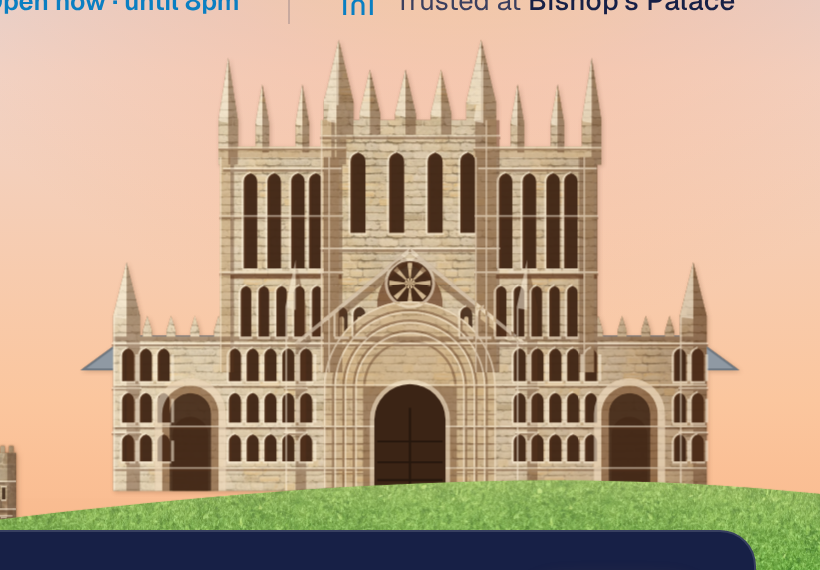
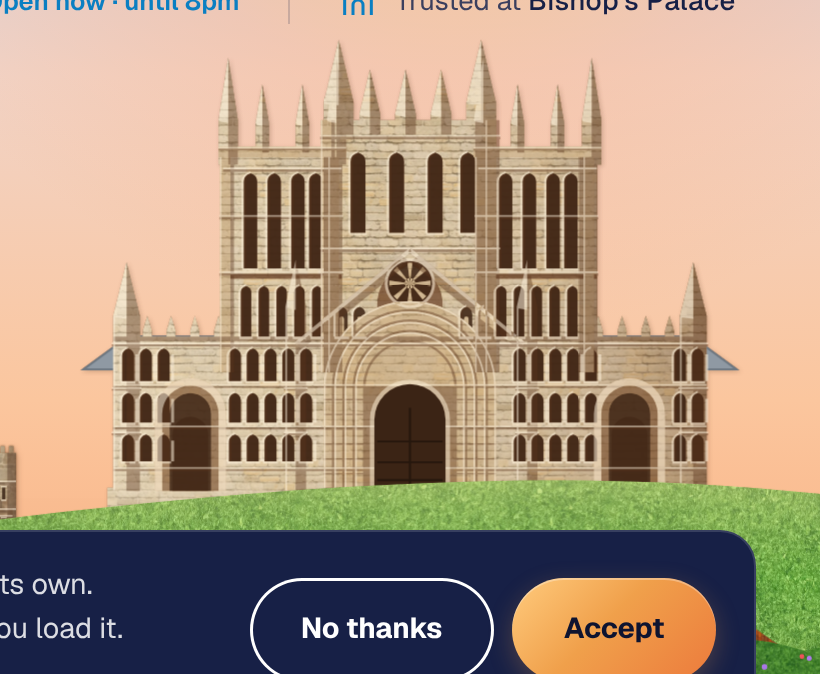
Hero: bury cathedral foundation plinth in the hill so no gaps show
Claude-Session: https://claude.ai/code/session_01KZy8Ptkq3oxorUJVA8Emz7

diff --git a/index.html b/index.html
@@ -158,7 +158,7 @@
         <!-- LINCOLN CATHEDRAL west front (from Castle Hill): image screen with blind arcading and three Norman recesses, gable with the great west window, twin west towers and the taller central tower behind -->
         <g class="hero__cathedral" transform="matrix(0.86 0 0 0.86 738.0 -20.0)">
           <path fill="#8F99A3" stroke="#6E7882" d="M120 318L150 296H222V318ZM560 318L530 296H458V318Z"/>
-          <g fill="url(#tex-stone)"><g id="cath-shape"><path d="M282 320V150H398V320ZM282 160V138L292.0 96L302 138V160ZM306 160V146L313.0 116L320 146V160ZM330 160V146L337.0 116L344 146V160ZM354 160V146L361.0 116L368 146V160ZM378 160V138L388.0 96L398 138V160ZM214 320V168H294V320ZM211 168H297V175H211ZM211 180V150L217.5 108L224 150V180ZM284 180V150L290.5 108L297 150V180ZM236 172V152L240.5 126L245 152V172ZM263 172V152L267.5 126L272 152V172ZM386 320V168H466V320ZM383 168H469V175H383ZM383 180V150L389.5 108L396 150V180ZM456 180V150L462.5 108L469 150V180ZM408 172V152L412.5 126L417 152V172ZM435 172V152L439.5 126L444 152V172ZM140 400V296H540V400ZM160 298V292L163.0 282L166 292V298ZM176 298V292L179.0 282L182 292V298ZM192 298V292L195.0 282L198 292V298ZM208 298V292L211.0 282L214 292V298ZM224 298V292L227.0 282L230 292V298ZM240 298V292L243.0 282L246 292V298ZM256 298V292L259.0 282L262 292V298ZM272 298V292L275.0 282L278 292V298ZM288 298V292L291.0 282L294 292V298ZM304 298V292L307.0 282L310 292V298ZM320 298V292L323.0 282L326 292V298ZM336 298V292L339.0 282L342 292V298ZM352 298V292L355.0 282L358 292V298ZM368 298V292L371.0 282L374 292V298ZM384 298V292L387.0 282L390 292V298ZM400 298V292L403.0 282L406 292V298ZM416 298V292L419.0 282L422 292V298ZM432 298V292L435.0 282L438 292V298ZM448 298V292L451.0 282L454 292V298ZM464 298V292L467.0 282L470 292V298ZM480 298V292L483.0 282L486 292V298ZM496 298V292L499.0 282L502 292V298ZM512 298V292L515.0 282L518 292V298ZM262 300L340 236L418 300ZM334 244V236L340.0 214L346 236V244ZM140 400V282L149.0 246L158 282V400ZM522 400V282L531.0 246L540 282V400ZM256 400V276L263.0 244L270 276V400ZM412 400V276L419.0 244L426 276V400Z"/></g></g><use href="#cath-shape" fill="url(#hero-shade)"/>
+          <g fill="url(#tex-stone)"><g id="cath-shape"><path d="M282 320V150H398V320ZM282 160V138L292.0 96L302 138V160ZM306 160V146L313.0 116L320 146V160ZM330 160V146L337.0 116L344 146V160ZM354 160V146L361.0 116L368 146V160ZM378 160V138L388.0 96L398 138V160ZM214 320V168H294V320ZM211 168H297V175H211ZM211 180V150L217.5 108L224 150V180ZM284 180V150L290.5 108L297 150V180ZM236 172V152L240.5 126L245 152V172ZM263 172V152L267.5 126L272 152V172ZM386 320V168H466V320ZM383 168H469V175H383ZM383 180V150L389.5 108L396 150V180ZM456 180V150L462.5 108L469 150V180ZM408 172V152L412.5 126L417 152V172ZM435 172V152L439.5 126L444 152V172ZM140 400V296H540V400ZM136 470V398H544V470ZM160 298V292L163.0 282L166 292V298ZM176 298V292L179.0 282L182 292V298ZM192 298V292L195.0 282L198 292V298ZM208 298V292L211.0 282L214 292V298ZM224 298V292L227.0 282L230 292V298ZM240 298V292L243.0 282L246 292V298ZM256 298V292L259.0 282L262 292V298ZM272 298V292L275.0 282L278 292V298ZM288 298V292L291.0 282L294 292V298ZM304 298V292L307.0 282L310 292V298ZM320 298V292L323.0 282L326 292V298ZM336 298V292L339.0 282L342 292V298ZM352 298V292L355.0 282L358 292V298ZM368 298V292L371.0 282L374 292V298ZM384 298V292L387.0 282L390 292V298ZM400 298V292L403.0 282L406 292V298ZM416 298V292L419.0 282L422 292V298ZM432 298V292L435.0 282L438 292V298ZM448 298V292L451.0 282L454 292V298ZM464 298V292L467.0 282L470 292V298ZM480 298V292L483.0 282L486 292V298ZM496 298V292L499.0 282L502 292V298ZM512 298V292L515.0 282L518 292V298ZM262 300L340 236L418 300ZM334 244V236L340.0 214L346 236V244ZM140 400V282L149.0 246L158 282V400ZM522 400V282L531.0 246L540 282V400ZM256 400V276L263.0 244L270 276V400ZM412 400V276L419.0 244L426 276V400Z"/></g></g><use href="#cath-shape" fill="url(#hero-shade)"/>
           <path fill="#B98A58" opacity=".38" d="M168 400V348.0A24.0 24.0 0 0 1 216 348.0V400ZM464 400V348.0A24.0 24.0 0 0 1 512 348.0V400Z"/>
         </g>
         <g fill="#6A4026" opacity=".72" transform="matrix(0.86 0 0 0.86 738.0 -20.0)"><path d="M300 226V178.0Q300 173.5 305.0 172Q310 173.5 310 178.0V226ZM326 226V178.0Q326 173.5 331.0 172Q336 173.5 336 178.0V226ZM352 226V178.0Q352 173.5 357.0 172Q362 173.5 362 178.0V226ZM374 226V178.0Q374 173.5 379.0 172Q384 173.5 384 178.0V226ZM228 250V191.4Q228 187.35 232.5 186Q237 187.35 237 191.4V250ZM244 250V191.4Q244 187.35 248.5 186Q253 187.35 253 191.4V250ZM260 250V191.4Q260 187.35 264.5 186Q269 187.35 269 191.4V250ZM272 250V191.4Q272 187.35 276.5 186Q281 187.35 281 191.4V250ZM226 296V266.2Q226 263.05 229.5 262Q233 263.05 233 266.2V296ZM238 296V266.2Q238 263.05 241.5 262Q245 263.05 245 266.2V296ZM250 296V266.2Q250 263.05 253.5 262Q257 263.05 257 266.2V296ZM262 296V266.2Q262 263.05 265.5 262Q269 263.05 269 266.2V296ZM274 296V266.2Q274 263.05 277.5 262Q281 263.05 281 266.2V296ZM214 254H294V257H214ZM400 250V191.4Q400 187.35 404.5 186Q409 187.35 409 191.4V250ZM416 250V191.4Q416 187.35 420.5 186Q425 187.35 425 191.4V250ZM432 250V191.4Q432 187.35 436.5 186Q441 187.35 441 191.4V250ZM444 250V191.4Q444 187.35 448.5 186Q453 187.35 453 191.4V250ZM398 296V266.2Q398 263.05 401.5 262Q405 263.05 405 266.2V296ZM410 296V266.2Q410 263.05 413.5 262Q417 263.05 417 266.2V296ZM422 296V266.2Q422 263.05 425.5 262Q429 263.05 429 266.2V296ZM434 296V266.2Q434 263.05 437.5 262Q441 263.05 441 266.2V296ZM446 296V266.2Q446 263.05 449.5 262Q453 263.05 453 266.2V296ZM386 254H466V257H386ZM146 326V308.8Q146 305.2 150.0 304Q154 305.2 154 308.8V326ZM158 326V308.8Q158 305.2 162.0 304Q166 305.2 166 308.8V326ZM170 326V308.8Q170 305.2 174.0 304Q178 305.2 178 308.8V326ZM218 326V308.8Q218 305.2 222.0 304Q226 305.2 226 308.8V326ZM230 326V308.8Q230 305.2 234.0 304Q238 305.2 238 308.8V326ZM242 326V308.8Q242 305.2 246.0 304Q250 305.2 250 308.8V326ZM254 326V308.8Q254 305.2 258.0 304Q262 305.2 262 308.8V326ZM266 326V308.8Q266 305.2 270.0 304Q274 305.2 274 308.8V326ZM410 326V308.8Q410 305.2 414.0 304Q418 305.2 418 308.8V326ZM422 326V308.8Q422 305.2 426.0 304Q430 305.2 430 308.8V326ZM434 326V308.8Q434 305.2 438.0 304Q442 305.2 442 308.8V326ZM446 326V308.8Q446 305.2 450.0 304Q454 305.2 454 308.8V326ZM458 326V308.8Q458 305.2 462.0 304Q466 305.2 466 308.8V326ZM518 326V308.8Q518 305.2 522.0 304Q526 305.2 526 308.8V326ZM530 326V308.8Q530 305.2 534.0 304Q538 305.2 538 308.8V326ZM146 354V338.8Q146 335.2 150.0 334Q154 335.2 154 338.8V354ZM158 354V338.8Q158 335.2 162.0 334Q166 335.2 166 338.8V354ZM170 354V338.8Q170 335.2 174.0 334Q178 335.2 178 338.8V354ZM218 354V338.8Q218 335.2 222.0 334Q226 335.2 226 338.8V354ZM230 354V338.8Q230 335.2 234.0 334Q238 335.2 238 338.8V354ZM242 354V338.8Q242 335.2 246.0 334Q250 335.2 250 338.8V354ZM254 354V338.8Q254 335.2 258.0 334Q262 335.2 262 338.8V354ZM266 354V338.8Q266 335.2 270.0 334Q274 335.2 274 338.8V354ZM410 354V338.8Q410 335.2 414.0 334Q418 335.2 418 338.8V354ZM422 354V338.8Q422 335.2 426.0 334Q430 335.2 430 338.8V354ZM434 354V338.8Q434 335.2 438.0 334Q442 335.2 442 338.8V354ZM446 354V338.8Q446 335.2 450.0 334Q454 335.2 454 338.8V354ZM458 354V338.8Q458 335.2 462.0 334Q466 335.2 466 338.8V354ZM518 354V338.8Q518 335.2 522.0 334Q526 335.2 526 338.8V354ZM530 354V338.8Q530 335.2 534.0 334Q538 335.2 538 338.8V354ZM146 380V366.8Q146 363.2 150.0 362Q154 363.2 154 366.8V380ZM158 380V366.8Q158 363.2 162.0 362Q166 363.2 166 366.8V380ZM170 380V366.8Q170 363.2 174.0 362Q178 363.2 178 366.8V380ZM218 380V366.8Q218 363.2 222.0 362Q226 363.2 226 366.8V380ZM230 380V366.8Q230 363.2 234.0 362Q238 363.2 238 366.8V380ZM242 380V366.8Q242 363.2 246.0 362Q250 363.2 250 366.8V380ZM254 380V366.8Q254 363.2 258.0 362Q262 363.2 262 366.8V380ZM266 380V366.8Q266 363.2 270.0 362Q274 363.2 274 366.8V380ZM410 380V366.8Q410 363.2 414.0 362Q418 363.2 418 366.8V380ZM422 380V366.8Q422 363.2 426.0 362Q430 363.2 430 366.8V380ZM434 380V366.8Q434 363.2 438.0 362Q442 363.2 442 366.8V380ZM446 380V366.8Q446 363.2 450.0 362Q454 363.2 454 366.8V380ZM458 380V366.8Q458 363.2 462.0 362Q466 363.2 466 366.8V380ZM518 380V366.8Q518 363.2 522.0 362Q526 363.2 526 366.8V380ZM530 380V366.8Q530 363.2 534.0 362Q538 363.2 538 366.8V380ZM314 400V352A26 26 0 0 1 366 352V400ZM180 400V362.0A12.0 12.0 0 0 1 204 362.0V400ZM476 400V362.0A12.0 12.0 0 0 1 500 362.0V400ZM318 300V274.4Q318 254.6 340.0 248Q362 254.6 362 274.4V300ZM333 252a7 7 0 1 0 14 0a7 7 0 1 0 -14 0ZM148 310h3v12h-3zM148 340h3v12h-3zM148 370h3v12h-3zM530 310h3v12h-3zM530 340h3v12h-3zM530 370h3v12h-3z"/></g>

diff --git a/parts/hero.html b/parts/hero.html
@@ -66,7 +66,7 @@
         <!-- LINCOLN CATHEDRAL west front (from Castle Hill): image screen with blind arcading and three Norman recesses, gable with the great west window, twin west towers and the taller central tower behind -->
         <g class="hero__cathedral" transform="matrix(0.86 0 0 0.86 738.0 -20.0)">
           <path fill="#8F99A3" stroke="#6E7882" d="M120 318L150 296H222V318ZM560 318L530 296H458V318Z"/>
-          <g fill="url(#tex-stone)"><g id="cath-shape"><path d="M282 320V150H398V320ZM282 160V138L292.0 96L302 138V160ZM306 160V146L313.0 116L320 146V160ZM330 160V146L337.0 116L344 146V160ZM354 160V146L361.0 116L368 146V160ZM378 160V138L388.0 96L398 138V160ZM214 320V168H294V320ZM211 168H297V175H211ZM211 180V150L217.5 108L224 150V180ZM284 180V150L290.5 108L297 150V180ZM236 172V152L240.5 126L245 152V172ZM263 172V152L267.5 126L272 152V172ZM386 320V168H466V320ZM383 168H469V175H383ZM383 180V150L389.5 108L396 150V180ZM456 180V150L462.5 108L469 150V180ZM408 172V152L412.5 126L417 152V172ZM435 172V152L439.5 126L444 152V172ZM140 400V296H540V400ZM160 298V292L163.0 282L166 292V298ZM176 298V292L179.0 282L182 292V298ZM192 298V292L195.0 282L198 292V298ZM208 298V292L211.0 282L214 292V298ZM224 298V292L227.0 282L230 292V298ZM240 298V292L243.0 282L246 292V298ZM256 298V292L259.0 282L262 292V298ZM272 298V292L275.0 282L278 292V298ZM288 298V292L291.0 282L294 292V298ZM304 298V292L307.0 282L310 292V298ZM320 298V292L323.0 282L326 292V298ZM336 298V292L339.0 282L342 292V298ZM352 298V292L355.0 282L358 292V298ZM368 298V292L371.0 282L374 292V298ZM384 298V292L387.0 282L390 292V298ZM400 298V292L403.0 282L406 292V298ZM416 298V292L419.0 282L422 292V298ZM432 298V292L435.0 282L438 292V298ZM448 298V292L451.0 282L454 292V298ZM464 298V292L467.0 282L470 292V298ZM480 298V292L483.0 282L486 292V298ZM496 298V292L499.0 282L502 292V298ZM512 298V292L515.0 282L518 292V298ZM262 300L340 236L418 300ZM334 244V236L340.0 214L346 236V244ZM140 400V282L149.0 246L158 282V400ZM522 400V282L531.0 246L540 282V400ZM256 400V276L263.0 244L270 276V400ZM412 400V276L419.0 244L426 276V400Z"/></g></g><use href="#cath-shape" fill="url(#hero-shade)"/>
+          <g fill="url(#tex-stone)"><g id="cath-shape"><path d="M282 320V150H398V320ZM282 160V138L292.0 96L302 138V160ZM306 160V146L313.0 116L320 146V160ZM330 160V146L337.0 116L344 146V160ZM354 160V146L361.0 116L368 146V160ZM378 160V138L388.0 96L398 138V160ZM214 320V168H294V320ZM211 168H297V175H211ZM211 180V150L217.5 108L224 150V180ZM284 180V150L290.5 108L297 150V180ZM236 172V152L240.5 126L245 152V172ZM263 172V152L267.5 126L272 152V172ZM386 320V168H466V320ZM383 168H469V175H383ZM383 180V150L389.5 108L396 150V180ZM456 180V150L462.5 108L469 150V180ZM408 172V152L412.5 126L417 152V172ZM435 172V152L439.5 126L444 152V172ZM140 400V296H540V400ZM136 470V398H544V470ZM160 298V292L163.0 282L166 292V298ZM176 298V292L179.0 282L182 292V298ZM192 298V292L195.0 282L198 292V298ZM208 298V292L211.0 282L214 292V298ZM224 298V292L227.0 282L230 292V298ZM240 298V292L243.0 282L246 292V298ZM256 298V292L259.0 282L262 292V298ZM272 298V292L275.0 282L278 292V298ZM288 298V292L291.0 282L294 292V298ZM304 298V292L307.0 282L310 292V298ZM320 298V292L323.0 282L326 292V298ZM336 298V292L339.0 282L342 292V298ZM352 298V292L355.0 282L358 292V298ZM368 298V292L371.0 282L374 292V298ZM384 298V292L387.0 282L390 292V298ZM400 298V292L403.0 282L406 292V298ZM416 298V292L419.0 282L422 292V298ZM432 298V292L435.0 282L438 292V298ZM448 298V292L451.0 282L454 292V298ZM464 298V292L467.0 282L470 292V298ZM480 298V292L483.0 282L486 292V298ZM496 298V292L499.0 282L502 292V298ZM512 298V292L515.0 282L518 292V298ZM262 300L340 236L418 300ZM334 244V236L340.0 214L346 236V244ZM140 400V282L149.0 246L158 282V400ZM522 400V282L531.0 246L540 282V400ZM256 400V276L263.0 244L270 276V400ZM412 400V276L419.0 244L426 276V400Z"/></g></g><use href="#cath-shape" fill="url(#hero-shade)"/>
           <path fill="#B98A58" opacity=".38" d="M168 400V348.0A24.0 24.0 0 0 1 216 348.0V400ZM464 400V348.0A24.0 24.0 0 0 1 512 348.0V400Z"/>
         </g>
         <g fill="#6A4026" opacity=".72" transform="matrix(0.86 0 0 0.86 738.0 -20.0)"><path d="M300 226V178.0Q300 173.5 305.0 172Q310 173.5 310 178.0V226ZM326 226V178.0Q326 173.5 331.0 172Q336 173.5 336 178.0V226ZM352 226V178.0Q352 173.5 357.0 172Q362 173.5 362 178.0V226ZM374 226V178.0Q374 173.5 379.0 172Q384 173.5 384 178.0V226ZM228 250V191.4Q228 187.35 232.5 186Q237 187.35 237 191.4V250ZM244 250V191.4Q244 187.35 248.5 186Q253 187.35 253 191.4V250ZM260 250V191.4Q260 187.35 264.5 186Q269 187.35 269 191.4V250ZM272 250V191.4Q272 187.35 276.5 186Q281 187.35 281 191.4V250ZM226 296V266.2Q226 263.05 229.5 262Q233 263.05 233 266.2V296ZM238 296V266.2Q238 263.05 241.5 262Q245 263.05 245 266.2V296ZM250 296V266.2Q250 263.05 253.5 262Q257 263.05 257 266.2V296ZM262 296V266.2Q262 263.05 265.5 262Q269 263.05 269 266.2V296ZM274 296V266.2Q274 263.05 277.5 262Q281 263.05 281 266.2V296ZM214 254H294V257H214ZM400 250V191.4Q400 187.35 404.5 186Q409 187.35 409 191.4V250ZM416 250V191.4Q416 187.35 420.5 186Q425 187.35 425 191.4V250ZM432 250V191.4Q432 187.35 436.5 186Q441 187.35 441 191.4V250ZM444 250V191.4Q444 187.35 448.5 186Q453 187.35 453 191.4V250ZM398 296V266.2Q398 263.05 401.5 262Q405 263.05 405 266.2V296ZM410 296V266.2Q410 263.05 413.5 262Q417 263.05 417 266.2V296ZM422 296V266.2Q422 263.05 425.5 262Q429 263.05 429 266.2V296ZM434 296V266.2Q434 263.05 437.5 262Q441 263.05 441 266.2V296ZM446 296V266.2Q446 263.05 449.5 262Q453 263.05 453 266.2V296ZM386 254H466V257H386ZM146 326V308.8Q146 305.2 150.0 304Q154 305.2 154 308.8V326ZM158 326V308.8Q158 305.2 162.0 304Q166 305.2 166 308.8V326ZM170 326V308.8Q170 305.2 174.0 304Q178 305.2 178 308.8V326ZM218 326V308.8Q218 305.2 222.0 304Q226 305.2 226 308.8V326ZM230 326V308.8Q230 305.2 234.0 304Q238 305.2 238 308.8V326ZM242 326V308.8Q242 305.2 246.0 304Q250 305.2 250 308.8V326ZM254 326V308.8Q254 305.2 258.0 304Q262 305.2 262 308.8V326ZM266 326V308.8Q266 305.2 270.0 304Q274 305.2 274 308.8V326ZM410 326V308.8Q410 305.2 414.0 304Q418 305.2 418 308.8V326ZM422 326V308.8Q422 305.2 426.0 304Q430 305.2 430 308.8V326ZM434 326V308.8Q434 305.2 438.0 304Q442 305.2 442 308.8V326ZM446 326V308.8Q446 305.2 450.0 304Q454 305.2 454 308.8V326ZM458 326V308.8Q458 305.2 462.0 304Q466 305.2 466 308.8V326ZM518 326V308.8Q518 305.2 522.0 304Q526 305.2 526 308.8V326ZM530 326V308.8Q530 305.2 534.0 304Q538 305.2 538 308.8V326ZM146 354V338.8Q146 335.2 150.0 334Q154 335.2 154 338.8V354ZM158 354V338.8Q158 335.2 162.0 334Q166 335.2 166 338.8V354ZM170 354V338.8Q170 335.2 174.0 334Q178 335.2 178 338.8V354ZM218 354V338.8Q218 335.2 222.0 334Q226 335.2 226 338.8V354ZM230 354V338.8Q230 335.2 234.0 334Q238 335.2 238 338.8V354ZM242 354V338.8Q242 335.2 246.0 334Q250 335.2 250 338.8V354ZM254 354V338.8Q254 335.2 258.0 334Q262 335.2 262 338.8V354ZM266 354V338.8Q266 335.2 270.0 334Q274 335.2 274 338.8V354ZM410 354V338.8Q410 335.2 414.0 334Q418 335.2 418 338.8V354ZM422 354V338.8Q422 335.2 426.0 334Q430 335.2 430 338.8V354ZM434 354V338.8Q434 335.2 438.0 334Q442 335.2 442 338.8V354ZM446 354V338.8Q446 335.2 450.0 334Q454 335.2 454 338.8V354ZM458 354V338.8Q458 335.2 462.0 334Q466 335.2 466 338.8V354ZM518 354V338.8Q518 335.2 522.0 334Q526 335.2 526 338.8V354ZM530 354V338.8Q530 335.2 534.0 334Q538 335.2 538 338.8V354ZM146 380V366.8Q146 363.2 150.0 362Q154 363.2 154 366.8V380ZM158 380V366.8Q158 363.2 162.0 362Q166 363.2 166 366.8V380ZM170 380V366.8Q170 363.2 174.0 362Q178 363.2 178 366.8V380ZM218 380V366.8Q218 363.2 222.0 362Q226 363.2 226 366.8V380ZM230 380V366.8Q230 363.2 234.0 362Q238 363.2 238 366.8V380ZM242 380V366.8Q242 363.2 246.0 362Q250 363.2 250 366.8V380ZM254 380V366.8Q254 363.2 258.0 362Q262 363.2 262 366.8V380ZM266 380V366.8Q266 363.2 270.0 362Q274 363.2 274 366.8V380ZM410 380V366.8Q410 363.2 414.0 362Q418 363.2 418 366.8V380ZM422 380V366.8Q422 363.2 426.0 362Q430 363.2 430 366.8V380ZM434 380V366.8Q434 363.2 438.0 362Q442 363.2 442 366.8V380ZM446 380V366.8Q446 363.2 450.0 362Q454 363.2 454 366.8V380ZM458 380V366.8Q458 363.2 462.0 362Q466 363.2 466 366.8V380ZM518 380V366.8Q518 363.2 522.0 362Q526 363.2 526 366.8V380ZM530 380V366.8Q530 363.2 534.0 362Q538 363.2 538 366.8V380ZM314 400V352A26 26 0 0 1 366 352V400ZM180 400V362.0A12.0 12.0 0 0 1 204 362.0V400ZM476 400V362.0A12.0 12.0 0 0 1 500 362.0V400ZM318 300V274.4Q318 254.6 340.0 248Q362 254.6 362 274.4V300ZM333 252a7 7 0 1 0 14 0a7 7 0 1 0 -14 0ZM148 310h3v12h-3zM148 340h3v12h-3zM148 370h3v12h-3zM530 310h3v12h-3zM530 340h3v12h-3zM530 370h3v12h-3z"/></g>
